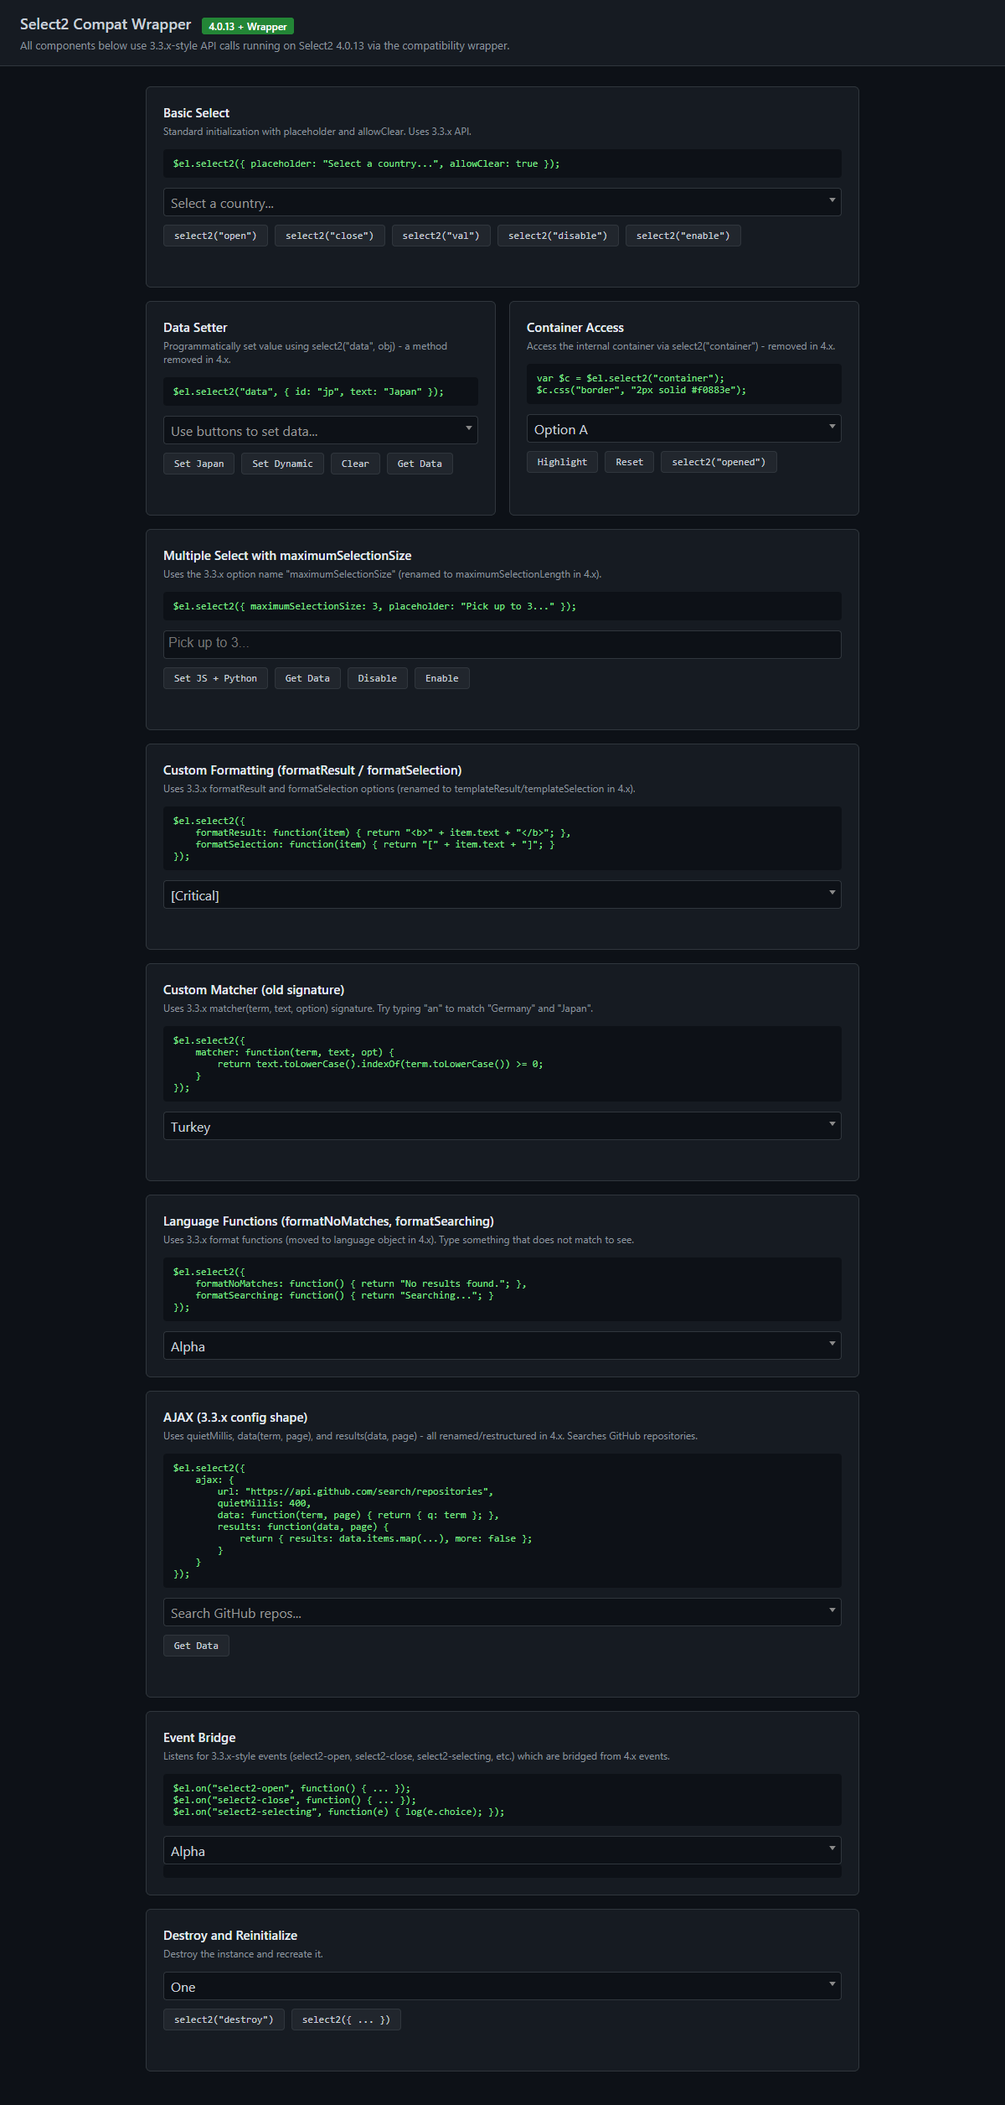
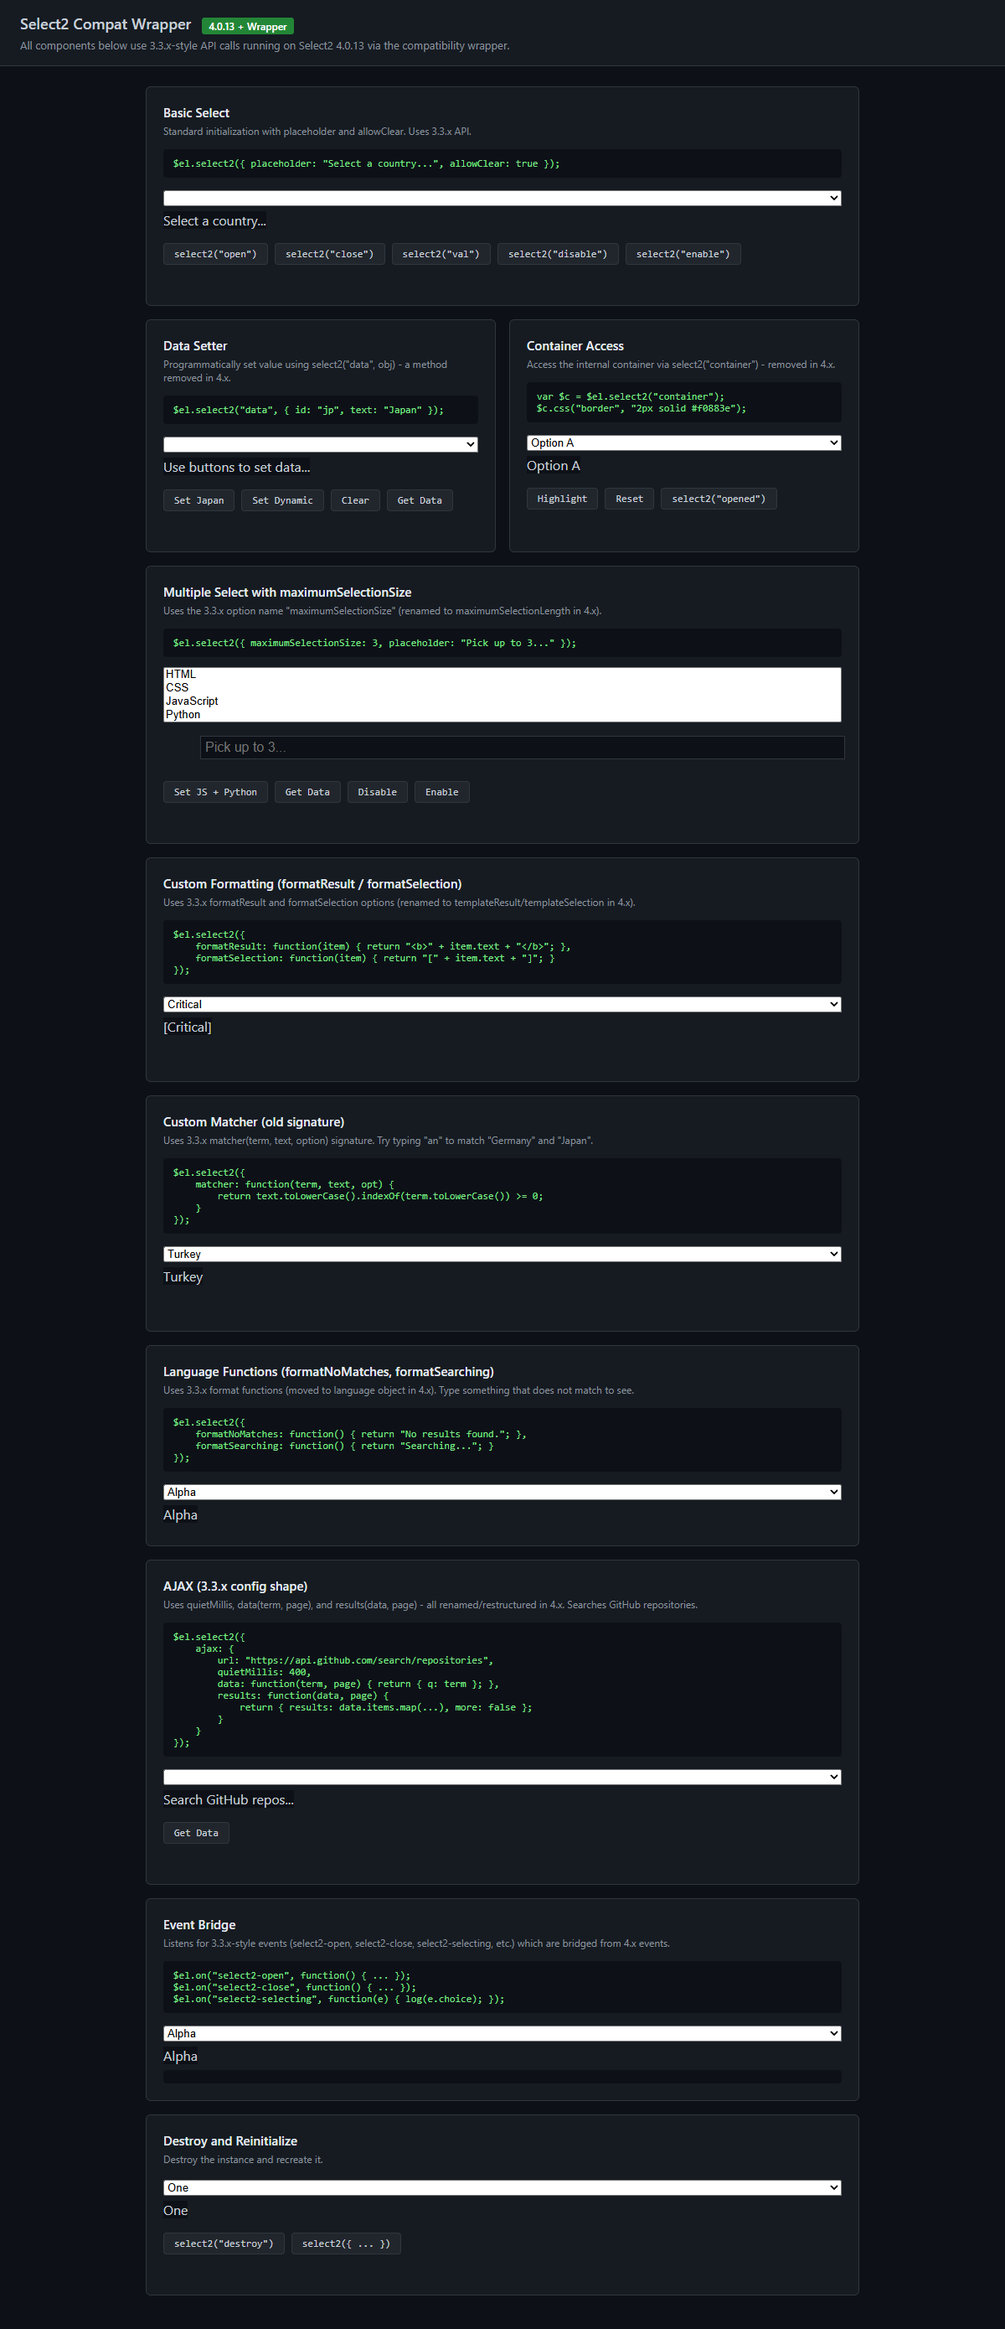
Add multi-mode switcher to interactive demo
Three modes: 4.x CSS + 4.x JS + Wrapper (recommended),
3.x CSS + 4.x JS + Wrapper (visual mismatch demo),
3.x CSS + 3.x JS (original with XSS vulnerabilities).

Mode switching via URL parameter with full page reload.
Dark theme CSS overrides for both v3 and v4 class names.

diff --git a/test/demo.html b/test/demo.html
@@ -3,14 +3,21 @@
 <head>
     <meta charset="UTF-8">
     <title>Select2 Compat Wrapper - Live Demo</title>
-    <link rel="stylesheet" href="lib/v3/select2.css">
+    <link id="select2-css" rel="stylesheet" href="lib/v4/select2.css">
     <style>
         * { box-sizing: border-box; }
         body { font-family: -apple-system, BlinkMacSystemFont, "Segoe UI", Roboto, sans-serif; margin: 0; padding: 0; background: #0d1117; color: #c9d1d9; }
         .header { background: #161b22; padding: 16px 24px; border-bottom: 1px solid #30363d; }
         .header h1 { margin: 0; font-size: 18px; font-weight: 600; }
         .header p { margin: 4px 0 0; font-size: 13px; color: #8b949e; }
-        .badge { display: inline-block; background: #238636; color: #fff; padding: 2px 8px; border-radius: 3px; font-size: 12px; font-weight: 600; margin-left: 8px; vertical-align: middle; }
+        .badge { display: inline-block; padding: 2px 8px; border-radius: 3px; font-size: 12px; font-weight: 600; margin-left: 8px; vertical-align: middle; }
+        .mode-bar { background: #161b22; padding: 10px 24px; border-bottom: 1px solid #30363d; display: flex; gap: 8px; align-items: center; }
+        .mode-bar label { font-size: 13px; color: #8b949e; margin-right: 8px; }
+        .mode-btn { background: #21262d; color: #8b949e; border: 1px solid #30363d; padding: 6px 14px; border-radius: 4px; font-size: 12px; cursor: pointer; font-family: Consolas, monospace; transition: all 0.15s; }
+        .mode-btn:hover { border-color: #8b949e; color: #c9d1d9; }
+        .mode-btn.active { background: #1f6feb; color: #fff; border-color: #1f6feb; }
+        .mode-desc { font-size: 11px; color: #8b949e; margin-left: 16px; padding: 4px 10px; background: #0d1117; border-radius: 3px; }
+        .mode-desc.broken { color: #f85149; }
         .content { max-width: 900px; margin: 0 auto; padding: 24px; }
         .card { background: #161b22; border: 1px solid #30363d; border-radius: 6px; padding: 20px; margin-bottom: 16px; }
         .card h2 { margin: 0 0 4px; font-size: 15px; font-weight: 600; color: #e6edf3; }
@@ -22,14 +29,35 @@
         .card .actions button:hover { background: #30363d; border-color: #8b949e; }
         .card .output { margin-top: 8px; font-size: 12px; color: #f0883e; font-family: Consolas, monospace; min-height: 20px; }
         .select2-container { width: 100% !important; }
-        .select2-container .select2-selection--single,
-        .select2-container .select2-selection--multiple { background: #0d1117; border-color: #30363d; color: #c9d1d9; min-height: 34px; }
-        .select2-container .select2-selection--single .select2-selection__rendered { color: #c9d1d9; line-height: 34px; }
-        .select2-container .select2-selection--multiple .select2-selection__choice { background: #21262d; border-color: #30363d; color: #c9d1d9; }
-        .select2-dropdown { background: #161b22; border-color: #30363d; }
-        .select2-results__option { color: #c9d1d9; }
-        .select2-results__option--highlighted { background: #1f6feb !important; color: #fff !important; }
-        .select2-search__field { background: #0d1117 !important; color: #c9d1d9 !important; border-color: #30363d !important; }
+
+        /* Dark theme overrides for 4.x classes */
+        .theme-v4 .select2-container .select2-selection--single,
+        .theme-v4 .select2-container .select2-selection--multiple { background: #0d1117; border-color: #30363d; color: #c9d1d9; min-height: 34px; }
+        .theme-v4 .select2-container .select2-selection--single .select2-selection__rendered { color: #c9d1d9; line-height: 34px; }
+        .theme-v4 .select2-container .select2-selection--multiple .select2-selection__choice { background: #21262d; border-color: #30363d; color: #c9d1d9; }
+        .theme-v4 .select2-dropdown { background: #161b22; border-color: #30363d; }
+        .theme-v4 .select2-results__option { color: #c9d1d9; }
+        .theme-v4 .select2-results__option--highlighted { background: #1f6feb !important; color: #fff !important; }
+        .theme-v4 .select2-search__field { background: #0d1117 !important; color: #c9d1d9 !important; border-color: #30363d !important; }
+
+        /* Dark theme overrides for 3.x classes */
+        .theme-v3 .select2-container .select2-choice { background: #0d1117; border-color: #30363d; color: #c9d1d9; background-image: none; filter: none; }
+        .theme-v3 .select2-container .select2-choice span { color: #c9d1d9; }
+        .theme-v3 .select2-container .select2-choice div { background: #21262d; border-left-color: #30363d; background-image: none; filter: none; }
+        .theme-v3 .select2-drop { background: #161b22; border-color: #30363d; color: #c9d1d9; }
+        .theme-v3 .select2-results .select2-highlighted { background: #1f6feb; color: #fff; }
+        .theme-v3 .select2-results .select2-result-label { color: #c9d1d9; }
+        .theme-v3 .select2-search input { background: #0d1117; border-color: #30363d; color: #c9d1d9; background-image: none; }
+        .theme-v3 .select2-container-multi .select2-choices { background: #0d1117; border-color: #30363d; background-image: none; }
+        .theme-v3 .select2-container-multi .select2-choices .select2-search-choice { background: #21262d; border-color: #30363d; color: #c9d1d9; background-image: none; filter: none; }
+        .theme-v3 .select2-container-multi .select2-choices .select2-search-field input { color: #c9d1d9; }
+        .theme-v3 .select2-container-active .select2-choice,
+        .theme-v3 .select2-container-active .select2-choices { border-color: #1f6feb; }
+        .theme-v3 .select2-dropdown-open .select2-choice { background: #161b22; background-image: none; filter: none; }
+        .theme-v3 .select2-default { color: #8b949e !important; }
+        .theme-v3 .select2-results .select2-no-results,
+        .theme-v3 .select2-results .select2-searching { background: #0d1117; color: #8b949e; }
+
         .split-row { display: flex; gap: 16px; }
         .split-row > .card { flex: 1; }
         .event-log { max-height: 120px; overflow-y: auto; background: #0d1117; padding: 8px; border-radius: 4px; font-size: 11px; font-family: Consolas, monospace; color: #8b949e; }
@@ -37,19 +65,27 @@
         .event-log .evt-name { color: #d2a8ff; }
     </style>
 </head>
-<body>
+<body class="theme-v4">
 
 <div class="header">
-    <h1>Select2 Compat Wrapper <span class="badge">4.0.13 + Wrapper</span></h1>
-    <p>All components below use 3.3.x-style API calls running on Select2 4.0.13 via the compatibility wrapper.</p>
+    <h1>Select2 Compat Wrapper <span class="badge" id="mode-badge" style="background:#238636">4.0.13 + Wrapper</span></h1>
+    <p>All components use 3.3.x-style API calls. Switch modes to see how different CSS + JS combos behave.</p>
 </div>
 
-<div class="content">
+<div class="mode-bar">
+    <label>Mode:</label>
+    <button class="mode-btn active" data-mode="v4css-v4js">4.x CSS + 4.x JS + Wrapper</button>
+    <button class="mode-btn" data-mode="v3css-v4js">3.x CSS + 4.x JS + Wrapper</button>
+    <button class="mode-btn" data-mode="v3css-v3js">3.x CSS + 3.x JS (original)</button>
+    <span class="mode-desc" id="mode-desc">Recommended setup. New CSS, new JS, wrapper translates API calls.</span>
+</div>
+
+<div class="content" id="demo-content">
 
     <!-- Basic select -->
     <div class="card">
         <h2>Basic Select</h2>
-        <div class="desc">Standard initialization with placeholder and allowClear. Uses 3.3.x API.</div>
+        <div class="desc">Standard initialization with placeholder and allowClear.</div>
         <div class="code">$el.select2({ placeholder: "Select a country...", allowClear: true });</div>
         <select id="demo-basic">
             <option></option>
@@ -62,7 +98,7 @@
         <div class="actions">
             <button onclick="$('#demo-basic').select2('open')">select2("open")</button>
             <button onclick="$('#demo-basic').select2('close')">select2("close")</button>
-            <button onclick="demoLog('basic', 'val = ' + $('#demo-basic').val())">select2("val")</button>
+            <button onclick="demoLog('basic', 'val = ' + $('#demo-basic').val())">Get val</button>
             <button onclick="$('#demo-basic').select2('disable'); demoLog('basic', 'disabled')">select2("disable")</button>
             <button onclick="$('#demo-basic').select2('enable'); demoLog('basic', 'enabled')">select2("enable")</button>
         </div>
@@ -73,7 +109,7 @@
         <!-- Data setter -->
         <div class="card">
             <h2>Data Setter</h2>
-            <div class="desc">Programmatically set value using select2("data", obj) - a method removed in 4.x.</div>
+            <div class="desc">Set value via select2("data", obj) - removed in 4.x, handled by wrapper.</div>
             <div class="code">$el.select2("data", { id: "jp", text: "Japan" });</div>
             <select id="demo-data">
                 <option></option>
@@ -94,7 +130,7 @@
         <!-- Container access -->
         <div class="card">
             <h2>Container Access</h2>
-            <div class="desc">Access the internal container via select2("container") - removed in 4.x.</div>
+            <div class="desc">Access internal container via select2("container") - removed in 4.x.</div>
             <div class="code">var $c = $el.select2("container");
 $c.css("border", "2px solid #f0883e");</div>
             <select id="demo-container">
@@ -102,7 +138,7 @@ $c.css("border", "2px solid #f0883e");</div>
                 <option value="b">Option B</option>
             </select>
             <div class="actions">
-                <button onclick="var c=$('#demo-container').select2('container'); c.css('border','2px solid #f0883e'); demoLog('container', 'Highlighted container')">Highlight</button>
+                <button onclick="var c=$('#demo-container').select2('container'); c.css('border','2px solid #f0883e'); demoLog('container', 'Highlighted')">Highlight</button>
                 <button onclick="var c=$('#demo-container').select2('container'); c.css('border',''); demoLog('container', 'Reset')">Reset</button>
                 <button onclick="demoLog('container', 'opened=' + $('#demo-container').select2('opened'))">select2("opened")</button>
             </div>
@@ -110,10 +146,10 @@ $c.css("border", "2px solid #f0883e");</div>
         </div>
     </div>
 
-    <!-- Multiple select with maximumSelectionSize -->
+    <!-- Multiple select -->
     <div class="card">
         <h2>Multiple Select with maximumSelectionSize</h2>
-        <div class="desc">Uses the 3.3.x option name "maximumSelectionSize" (renamed to maximumSelectionLength in 4.x).</div>
+        <div class="desc">Uses 3.3.x option name "maximumSelectionSize" (renamed to maximumSelectionLength in 4.x).</div>
         <div class="code">$el.select2({ maximumSelectionSize: 3, placeholder: "Pick up to 3..." });</div>
         <select id="demo-multi" multiple>
             <option value="html">HTML</option>
@@ -135,7 +171,7 @@ $c.css("border", "2px solid #f0883e");</div>
     <!-- Custom formatting -->
     <div class="card">
         <h2>Custom Formatting (formatResult / formatSelection)</h2>
-        <div class="desc">Uses 3.3.x formatResult and formatSelection options (renamed to templateResult/templateSelection in 4.x).</div>
+        <div class="desc">Uses 3.3.x formatResult and formatSelection (renamed to templateResult/templateSelection in 4.x).</div>
         <div class="code">$el.select2({
     formatResult: function(item) { return "&lt;b&gt;" + item.text + "&lt;/b&gt;"; },
     formatSelection: function(item) { return "[" + item.text + "]"; }
@@ -152,12 +188,10 @@ $c.css("border", "2px solid #f0883e");</div>
     <!-- Custom matcher -->
     <div class="card">
         <h2>Custom Matcher (old signature)</h2>
-        <div class="desc">Uses 3.3.x matcher(term, text, option) signature. Try typing "an" to match "Germany" and "Japan".</div>
-        <div class="code">$el.select2({
-    matcher: function(term, text, opt) {
-        return text.toLowerCase().indexOf(term.toLowerCase()) >= 0;
-    }
-});</div>
+        <div class="desc">Uses 3.3.x matcher(term, text, option) signature. Type "an" to match Germany and Japan.</div>
+        <div class="code">$el.select2({ matcher: function(term, text, opt) {
+    return text.toLowerCase().indexOf(term.toLowerCase()) >= 0;
+}});</div>
         <select id="demo-matcher">
             <option value="tr">Turkey</option>
             <option value="us">United States</option>
@@ -165,13 +199,12 @@ $c.css("border", "2px solid #f0883e");</div>
             <option value="jp">Japan</option>
             <option value="fr">France</option>
         </select>
-        <div class="output" id="out-matcher"></div>
     </div>
 
-    <!-- formatNoMatches / formatSearching -->
+    <!-- Language functions -->
     <div class="card">
         <h2>Language Functions (formatNoMatches, formatSearching)</h2>
-        <div class="desc">Uses 3.3.x format functions (moved to language object in 4.x). Type something that does not match to see.</div>
+        <div class="desc">Uses 3.3.x format functions (moved to language object in 4.x). Type something that does not match.</div>
         <div class="code">$el.select2({
     formatNoMatches: function() { return "No results found."; },
     formatSearching: function() { return "Searching..."; }
@@ -183,20 +216,15 @@ $c.css("border", "2px solid #f0883e");</div>
         </select>
     </div>
 
-    <!-- AJAX with 3.3.x config -->
+    <!-- AJAX -->
     <div class="card">
         <h2>AJAX (3.3.x config shape)</h2>
-        <div class="desc">Uses quietMillis, data(term, page), and results(data, page) - all renamed/restructured in 4.x. Searches GitHub repositories.</div>
-        <div class="code">$el.select2({
-    ajax: {
-        url: "https://api.github.com/search/repositories",
-        quietMillis: 400,
-        data: function(term, page) { return { q: term }; },
-        results: function(data, page) {
-            return { results: data.items.map(...), more: false };
-        }
-    }
-});</div>
+        <div class="desc">Uses quietMillis, data(term, page), and results(data, page). Searches GitHub repos.</div>
+        <div class="code">$el.select2({ ajax: {
+    url: "...", quietMillis: 400,
+    data: function(term, page) { return { q: term }; },
+    results: function(data, page) { return { results: [...], more: false }; }
+}});</div>
         <select id="demo-ajax"><option></option></select>
         <div class="actions">
             <button onclick="var d=$('#demo-ajax').select2('data'); demoLog('ajax', JSON.stringify(d))">Get Data</button>
@@ -207,9 +235,8 @@ $c.css("border", "2px solid #f0883e");</div>
     <!-- Event bridge -->
     <div class="card">
         <h2>Event Bridge</h2>
-        <div class="desc">Listens for 3.3.x-style events (select2-open, select2-close, select2-selecting, etc.) which are bridged from 4.x events.</div>
+        <div class="desc">Listens for 3.3.x-style events (select2-open, select2-close, select2-selecting, etc.).</div>
         <div class="code">$el.on("select2-open", function() { ... });
-$el.on("select2-close", function() { ... });
 $el.on("select2-selecting", function(e) { log(e.choice); });</div>
         <select id="demo-events">
             <option value="a">Alpha</option>
@@ -222,7 +249,6 @@ $el.on("select2-selecting", function(e) { log(e.choice); });</div>
     <!-- Destroy / Reinit -->
     <div class="card">
         <h2>Destroy and Reinitialize</h2>
-        <div class="desc">Destroy the instance and recreate it.</div>
         <select id="demo-destroy">
             <option value="1">One</option>
             <option value="2">Two</option>
@@ -237,15 +263,49 @@ $el.on("select2-selecting", function(e) { log(e.choice); });</div>
 
 </div>
 
+<!-- jQuery always loaded -->
 <script src="https://code.jquery.com/jquery-1.10.2.min.js"></script>
-<script src="lib/v4/select2.full.js"></script>
-<script src="lib/v4/select2-compat-wrapper.js"></script>
+
+<!-- Scripts are swapped dynamically -->
+<script id="select2-core" src="lib/v4/select2.full.js"></script>
+<script id="select2-wrapper" src="lib/v4/select2-compat-wrapper.js"></script>
+
 <script>
+var MODES = {
+    "v4css-v4js": {
+        css: "lib/v4/select2.css",
+        js: ["lib/v4/select2.full.js", "lib/v4/select2-compat-wrapper.js"],
+        badge: "4.x CSS + 4.x JS + Wrapper",
+        badgeColor: "#238636",
+        desc: "Recommended setup. New CSS, new JS, wrapper translates API calls.",
+        bodyClass: "theme-v4",
+        broken: false
+    },
+    "v3css-v4js": {
+        css: "lib/v3/select2.css",
+        js: ["lib/v4/select2.full.js", "lib/v4/select2-compat-wrapper.js"],
+        badge: "3.x CSS + 4.x JS + Wrapper",
+        badgeColor: "#d29922",
+        desc: "Old CSS + new JS. Functional but visually broken -- 3.x class names do not match 4.x HTML output.",
+        bodyClass: "theme-v3",
+        broken: true
+    },
+    "v3css-v3js": {
+        css: "lib/v3/select2.css",
+        js: ["lib/v3/select2.js"],
+        badge: "3.x CSS + 3.x JS (original)",
+        badgeColor: "#f85149",
+        desc: "Original 3.3.0 without wrapper. Has known XSS vulnerabilities. Shown for comparison only.",
+        bodyClass: "theme-v3",
+        broken: false
+    }
+};
+
 function demoLog(id, msg) {
     $("#out-" + id).text(msg);
 }
 
-$(function () {
+function initAllComponents() {
     // Basic
     $("#demo-basic").select2({ placeholder: "Select a country...", allowClear: true });
 
@@ -305,7 +365,7 @@ $(function () {
 
     // Events
     $("#demo-events").select2();
-    var $log = $("#event-log");
+    $("#event-log").empty();
     var events = ["select2-open", "select2-opening", "select2-close", "select2-closing",
                   "select2-selecting", "select2-selected", "select2-removing", "select2-removed"];
     $.each(events, function (i, evtName) {
@@ -313,12 +373,78 @@ $(function () {
             var detail = "";
             if (e.choice) detail = " (id=" + e.choice.id + ", text=" + e.choice.text + ")";
             if (e.val) detail += " val=" + e.val;
-            $log.prepend('<div><span class="evt-name">' + evtName + '</span>' + detail + '</div>');
+            $("#event-log").prepend('<div><span class="evt-name">' + evtName + '</span>' + detail + '</div>');
         });
     });
 
     // Destroy
     $("#demo-destroy").select2();
+}
+
+function switchMode(mode) {
+    var conf = MODES[mode];
+
+    // Update UI
+    $(".mode-btn").removeClass("active");
+    $(".mode-btn[data-mode='" + mode + "']").addClass("active");
+    $("#mode-badge").text(conf.badge).css("background", conf.badgeColor);
+    $("#mode-desc").text(conf.desc).toggleClass("broken", conf.broken);
+    $("body").attr("class", conf.bodyClass);
+
+    // Swap CSS
+    $("#select2-css").attr("href", conf.css);
+
+    // Full page reload with mode param to swap scripts
+    var url = window.location.pathname + "?mode=" + mode;
+    if (window.location.search !== "?mode=" + mode) {
+        window.location.href = url;
+    }
+}
+
+// Read mode from URL
+var currentMode = (window.location.search.match(/mode=([^&]+)/) || [null, "v4css-v4js"])[1];
+var conf = MODES[currentMode];
+
+if (conf) {
+    $("body").attr("class", conf.bodyClass);
+    $("#select2-css").attr("href", conf.css);
+    $("#mode-badge").text(conf.badge).css("background", conf.badgeColor);
+    $("#mode-desc").text(conf.desc).toggleClass("broken", conf.broken);
+    $(".mode-btn").removeClass("active");
+    $(".mode-btn[data-mode='" + currentMode + "']").addClass("active");
+
+    // Dynamically load correct JS
+    var $core = $("#select2-core");
+    var $wrapper = $("#select2-wrapper");
+
+    // Remove previously loaded scripts
+    $core.remove();
+    $wrapper.remove();
+
+    // Load new scripts in order
+    function loadScript(src, callback) {
+        var script = document.createElement("script");
+        script.src = src;
+        script.onload = callback;
+        document.body.appendChild(script);
+    }
+
+    loadScript(conf.js[0], function () {
+        if (conf.js[1]) {
+            loadScript(conf.js[1], function () {
+                initAllComponents();
+            });
+        } else {
+            initAllComponents();
+        }
+    });
+} else {
+    initAllComponents();
+}
+
+// Mode button click
+$(document).on("click", ".mode-btn", function () {
+    switchMode($(this).data("mode"));
 });
 </script>
 </body>
